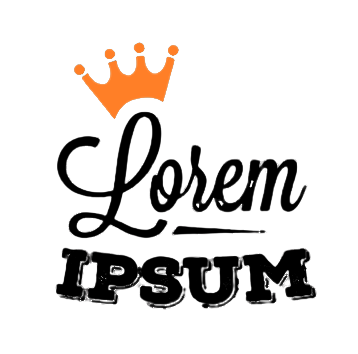
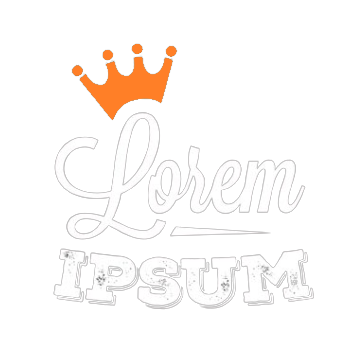
Contact-Us Page added

diff --git a/Restaurant Lorem 2.0/components/contact-us/style.css b/Restaurant Lorem 2.0/components/contact-us/style.css
@@ -1,4 +1,5 @@
 @import url('https://fonts.googleapis.com/css2?family=Lato&display=swap');
+@import url('https://fonts.googleapis.com/css2?family=Akaya+Telivigala&display=swap');
 
 *{
     margin: 0;
@@ -34,3 +35,144 @@
     border-bottom: 2px solid #FF7F27;
     padding: 2px;
 }
+
+/* Main */
+main{
+    background-image: url(../../img/contact/newsletter-bg.png);
+    background-position-x: center;
+    background-position-y: top;
+    background-attachment: fixed;
+    background-size: cover;
+    height: 50vh;
+    min-height: 100%;
+    display: flex;
+    flex-flow: column wrap;
+    align-items: center;
+}
+.elements{
+    margin-top: 5%;
+    display: flex;
+    flex-flow: column wrap;
+    align-items: center;
+}
+.elements h2{
+    font-family: 'Akaya Telivigala', cursive;
+    color: white;
+    font-size: 60px;
+}
+.elements p{
+    color: white;
+    font-weight: bold;
+    font-size: 24px;
+    margin-top: 20px;
+}
+.email-bar input{
+    width: 100%;
+    border: 2px dotted #ccc;
+    background: #f5f5f5;
+    color: #202020;
+    padding: 12px;
+    text-transform: capitalize;
+    border-radius: 4px;
+    margin-top: 42px;
+}
+.email-bar a{
+    position: relative;
+    bottom: 33px;
+    left: 265px;
+    background: #FF7F27;
+    border: 2px dotted #ccc;
+    padding: 10px 20px;
+    font-size: 17px;
+    border-radius: 4px;
+    color: #ffffff;
+}
+
+/* Footer */
+footer{
+    background-image: url(../../img/contact/footer_background.jpg);
+    background-size: cover;
+    height: 70vh;
+    display: flex;
+    flex-flow: column wrap;
+    align-items: center;
+    color: white;
+    font-size: 14px;
+}
+.navbar-elements{
+    display: flex;
+    flex-flow: row wrap;
+    align-items: center;
+    margin-top: 5%;
+}
+
+footer img{
+    height: 200px;
+    width: 240px;
+}
+.orange{
+    font-family: 'Akaya Telivigala', cursive;
+    color: #FF7F27;
+    font-size: 30px;
+}
+.about{
+    display: flex;
+    flex-flow: column wrap;
+    align-items: center;
+}
+.about h3{
+    margin-bottom: 50px;
+}
+.about p{
+    width: 300px;
+}
+
+.new-menu{
+    display: flex;
+    flex-flow: column wrap;
+    align-items: center;
+}
+.new-menu li{
+    padding: 5px;
+}
+
+.new-menu a{
+    color: white;
+    text-decoration: none;
+}
+
+.contact, .hours{
+    display: flex;
+    flex-flow: column wrap;
+    align-items: center;
+}
+
+.contact li{
+    padding: 5px;
+}
+.contact h3{
+    margin-bottom: 20px;
+}
+.contact a{
+    color: white;
+    text-decoration: none;
+}
+.contact i{
+    font-size: 20px;
+}
+.contact .fa{
+    color: #FF7F27;
+}
+
+.hours h3{
+    margin-bottom: 10px;
+}
+.hours h4{
+    margin-top: 10px;
+}
+.hours span{
+    color: #666;
+}
+
+
+

diff --git a/Restaurant Lorem 2.0/components/contact-us/index.html b/Restaurant Lorem 2.0/components/contact-us/index.html
@@ -9,14 +9,14 @@
     <link rel="stylesheet" href="style.css">
     <link rel="stylesheet" href="responsive.css">
     <script src="./script.js"></script>
+    <link rel="stylesheet" href="https://cdnjs.cloudflare.com/ajax/libs/font-awesome/4.7.0/css/font-awesome.min.css">
     <title>Contact Us - Restaurant Lorem 2.0</title>
 </head>
 
 <body>
-    <h2>Contact Us</h2>
     <header>
         <div class="navbar">
-            <img src="../../img/lipsum-logo.png" alt="lipsum-logo1">
+            <img src="../../img/lipsum-contact.png" alt="lipsum-logo1">
             <nav>
                 <ul>
                     <li>
@@ -47,6 +47,52 @@
             </nav>
         </div>
     </header>
+
+    <main>
+        <div class="elements">
+            <h2>Newsletter</h2>
+            <p>Lorem ipsum dolor sit amet, consectetur adipiscing elit</p>
+            <div class="email-bar">
+                <input class="input-email" type="email" required placeholder="Enter Your E-Mail ID">
+                <a href="#" class="orange-btn"><i class="fa fa-arrow-circle-right"></i></a>
+            </div>
+        </div>
+    </main>
+
+    <footer>
+        <img src="../../img/lipsum-teams.png" alt="lipsum-teams">
+
+        <nav class="navbar-elements">
+            <div class="about">
+                <h3 class="orange">About Us</h3>
+                <p>Aenean commodo ligula eget dolor aenean massa. Cum sociis nat penatibu set magnis dis parturient
+                    montes.</p>
+            </div>
+
+            <ul class="new-menu">
+                <h3 class="orange">New Menu</h3>
+                <li><a href="#">Pizza Peperoni</a></li>
+                <li><a href="#">Chicken Burger</a></li>
+                <li><a href="#">Spaghetti Bolognese</a></li>
+                <li><a href="#">Club Sandwich </a></li>
+            </ul>
+
+            <ul class="contact">
+                <h3 class="orange">Contact Us</h3>
+                <li><i class="fa fa-location-arrow"></i> 685 Eva Pearl Street Baton Rouge LA</li>
+                <li><i class="fa fa-mobile"></i>+359 87 6778588</li>
+                <li> <i class="fa fa-envelope-square"></i> <a href="#">ivansolenkov99@gmail.com</a></li>
+            </ul>
+
+            <div class="hours">
+                <h3 class="orange">Opening Hours</h3>
+                <h4>Monday-Thursday</h4>
+                <span>11:00 AM - 9:00 PM</span>
+                <h4>Friday-Saturday</h4>
+                <span>11:00 AM - 5:00 PM</span>
+            </div>
+        </nav>
+    </footer>
 </body>
 
 </html>

diff --git a/Restaurant Lorem 2.0/components/about-us/index.html b/Restaurant Lorem 2.0/components/about-us/index.html
@@ -86,8 +86,8 @@
             </div>
 
             <div class="images">
-                <img class="about-main" src="../../img/about-main.jpg" alt="about-main">
-                <img class="about-inset" src="../../img/about-inset.jpg" alt="about-inset">
+                <img class="about-main" src="../../img/about/about-main.jpg" alt="about-main">
+                <img class="about-inset" src="../../img/about/about-inset.jpg" alt="about-inset">
             </div>
         </div>
 
@@ -98,9 +98,9 @@
                 magna aliqua. Ut enim ad minim venia,nostrud exercitation ullamco.
             </p>
             <div class="special-images">
-                <img src="../../img/spaghetti.jpg" alt="spaghetti">
-                <img src="../../img/burger.jpg" alt="burger">
-                <img src="../../img//pizza.jpg" alt="pizza">
+                <img src="../../img/about/spaghetti.jpg" alt="spaghetti">
+                <img src="../../img/about/burger.jpg" alt="burger">
+                <img src="../../img/about/pizza.jpg" alt="pizza">
             </div>
         </div>
     </main>
